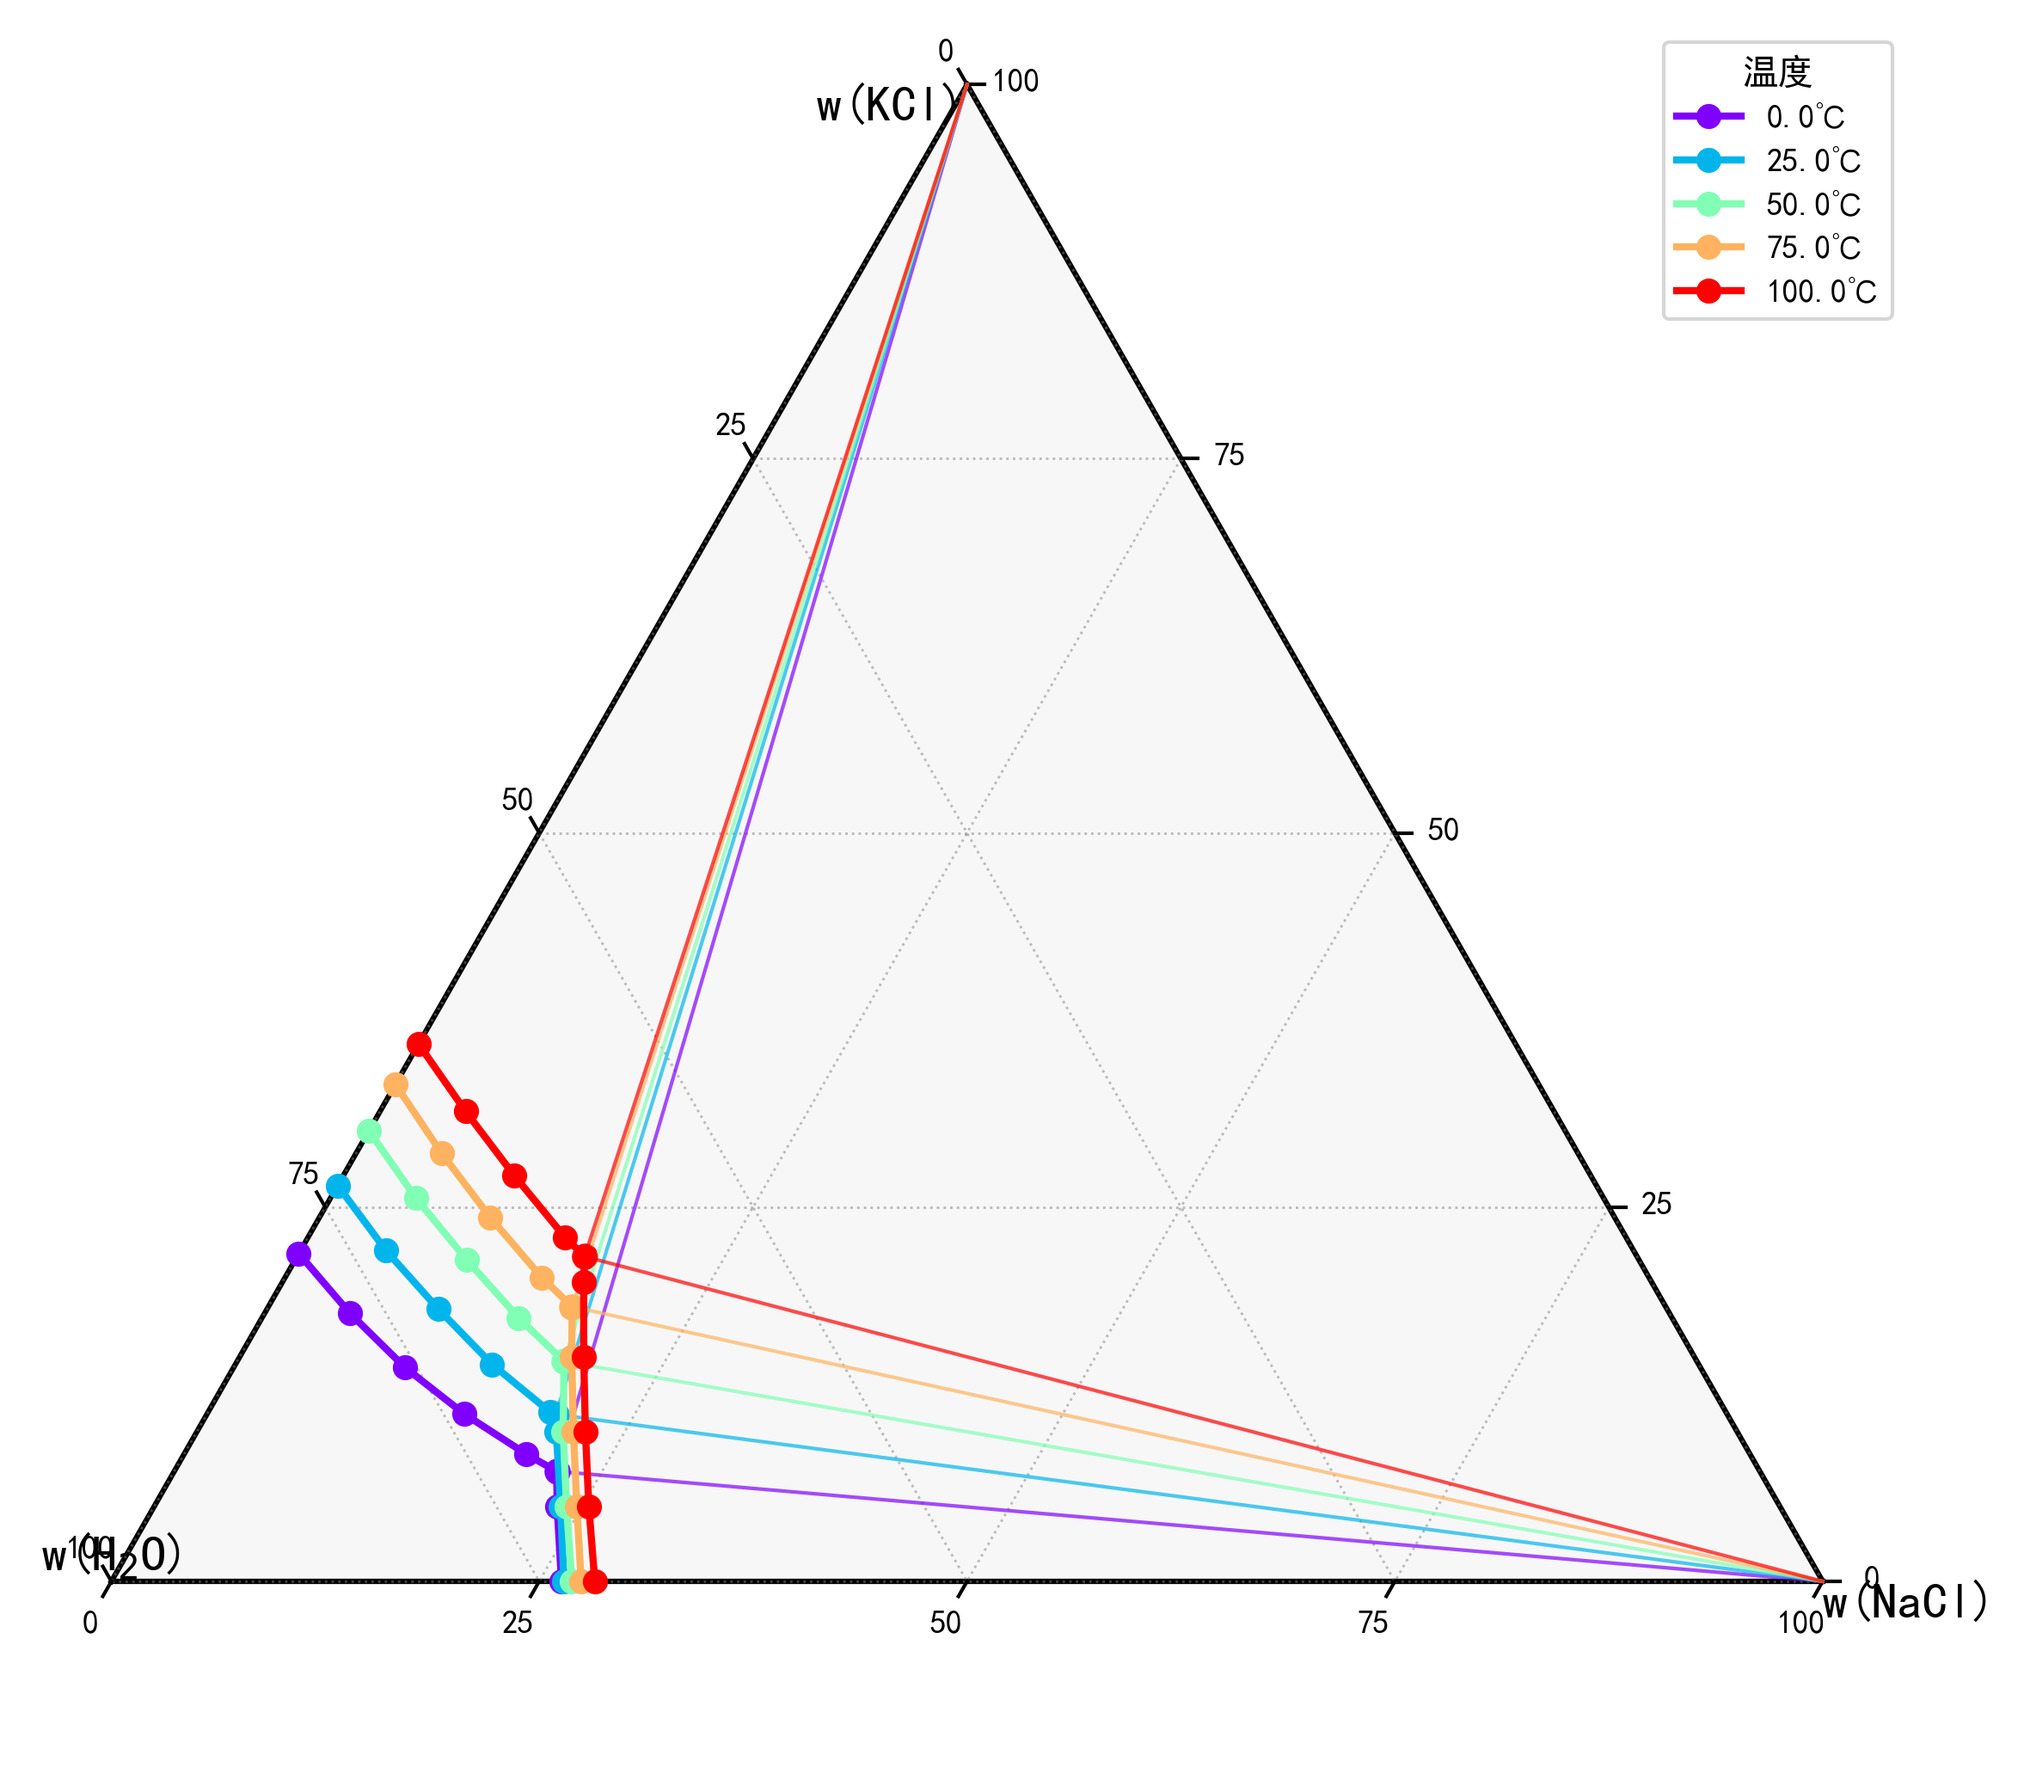
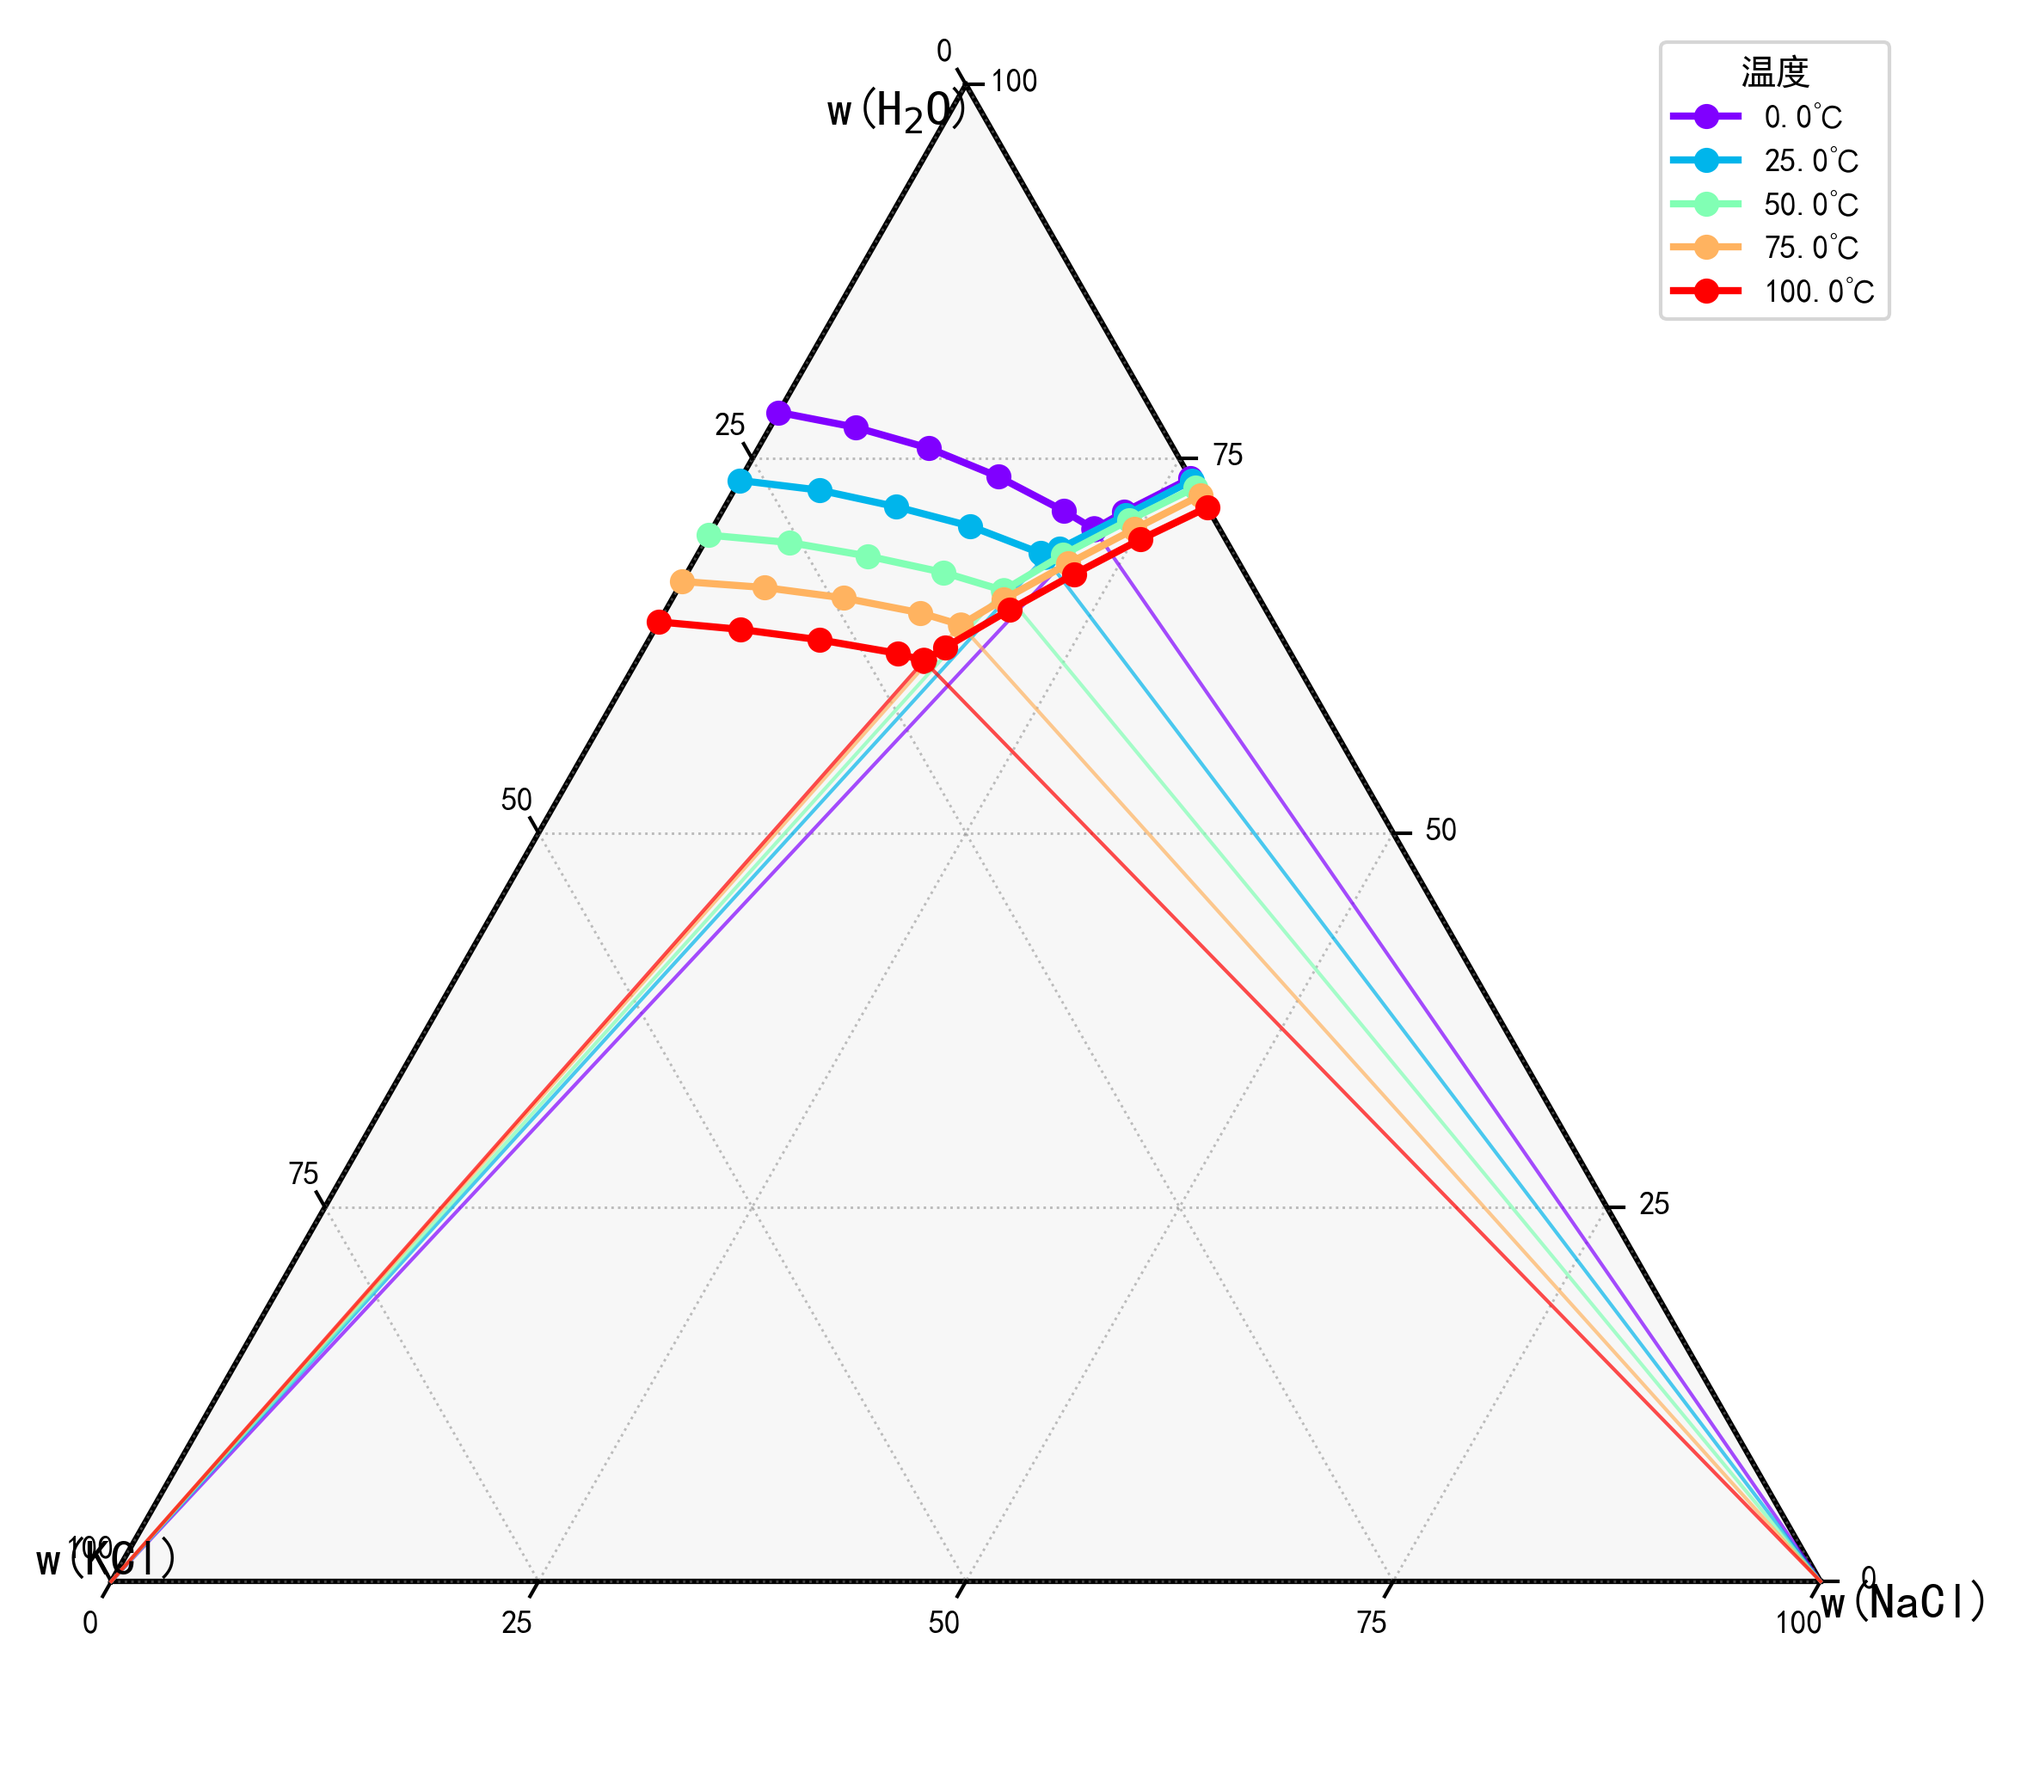
三元相图与示例一致

diff --git a/main.py b/main.py
@@ -157,8 +157,8 @@ tax.ticks(axis='lbr', multiple=25, linewidth=1, fontsize=9)
 
 # 顶点标注（旋转后合理的位置）
 fontsize = 14
-tax.annotate("w(H$_2$O)", (0, 0, scale), ha='center', va='bottom', fontsize=fontsize, fontweight="bold")  # 左下
-tax.annotate("w(KCl)", (0, scale, 0), ha='right', va='top', fontsize=fontsize, fontweight="bold")     # 上顶点
+tax.annotate("w(KCl)", (0, 0, scale), ha='center', va='bottom', fontsize=fontsize, fontweight="bold")  # 左下
+tax.annotate("w(H$_2$O)", (0, scale, 0), ha='right', va='top', fontsize=fontsize, fontweight="bold")     # 上顶点
 tax.annotate("w(NaCl)", (scale, 0, 0), ha='left', va='top', fontsize=fontsize, fontweight="bold")     # 右下
 
 # 去掉默认的边标签
@@ -173,7 +173,7 @@ for i, temp in enumerate(temperatures):
     H2O  = [100 - n - k for n, k in zip(NaCl, KCl)]
 
     # 转换为三元相 (NaCl, KCl, H2O)
-    points = list(zip(NaCl, KCl, H2O))
+    points = list(zip(NaCl, H2O,KCl ))
 
     # 绘制主线
     tax.plot(points, linewidth=2, marker='o', color=colors[i], label=f"{temp}℃")
@@ -184,13 +184,13 @@ for i, temp in enumerate(temperatures):
         eNaCl = eutectic_row['液相NaCl/%'].values[0]
         eKCl  = eutectic_row['液相KCl/%'].values[0]
         eH2O  = 100 - eNaCl - eKCl
-        eutectic = (eNaCl, eKCl, eH2O)
+        eutectic = (eNaCl,eH2O , eKCl)
         tax.scatter([eutectic], marker='o', color=colors[i], s=40)
 
         # 从共饱点连向 NaCl 顶点
         tax.line(eutectic, (100,0,0), linewidth=1, color=colors[i], alpha=0.7)
         # 从共饱点连向 KCl 顶点
-        tax.line(eutectic, (0,100,0), linewidth=1, color=colors[i], alpha=0.7)
+        tax.line(eutectic, (0,0,100), linewidth=1, color=colors[i], alpha=0.7)
 
 # 添加图例
 tax.legend(title="温度",fontsize=9)

diff --git a/docs/demo.md b/docs/demo.md
@@ -1,0 +1,23 @@
+## 不同温度下的液相NaCl/% 和液相KCl的关系曲线图
+
+>其中从饱和点向外引出两条曲线
+
+![0.0℃相图.png](../output/0.0%E2%84%83%E7%9B%B8%E5%9B%BE.png)
+![25.0℃相图.png](../output/25.0%E2%84%83%E7%9B%B8%E5%9B%BE.png)
+![50.0℃相图.png](../output/50.0%E2%84%83%E7%9B%B8%E5%9B%BE.png)
+![75.0℃相图.png](../output/75.0%E2%84%83%E7%9B%B8%E5%9B%BE.png)
+![100.0℃相图.png](../output/100.0%E2%84%83%E7%9B%B8%E5%9B%BE.png)
+![不同温度下的相图曲线整合.png](../output/%E4%B8%8D%E5%90%8C%E6%B8%A9%E5%BA%A6%E4%B8%8B%E7%9A%84%E7%9B%B8%E5%9B%BE%E6%9B%B2%E7%BA%BF%E6%95%B4%E5%90%88.png)
+## 三元相图
+
+> 三元相图的顶点和边
+>
+> **顶点**：每个顶点表示三元系统中某种成分的纯物质。
+>
+> - 顶点 `w(H₂O)`：纯水（100% H₂O）
+> - 顶点 `w(NaCl)`：纯氯化钠（100% NaCl）
+> - 顶点 `w(KCl)`：纯氯化钾（100% KCl）
+>
+> **边**：任意两顶点之间的边表示只有这两种成分的二元混合物，第三种成分的含量为 0。
+
+![三元相图_含刻度.png](../output/%E4%B8%89%E5%85%83%E7%9B%B8%E5%9B%BE_%E5%90%AB%E5%88%BB%E5%BA%A6.png)
